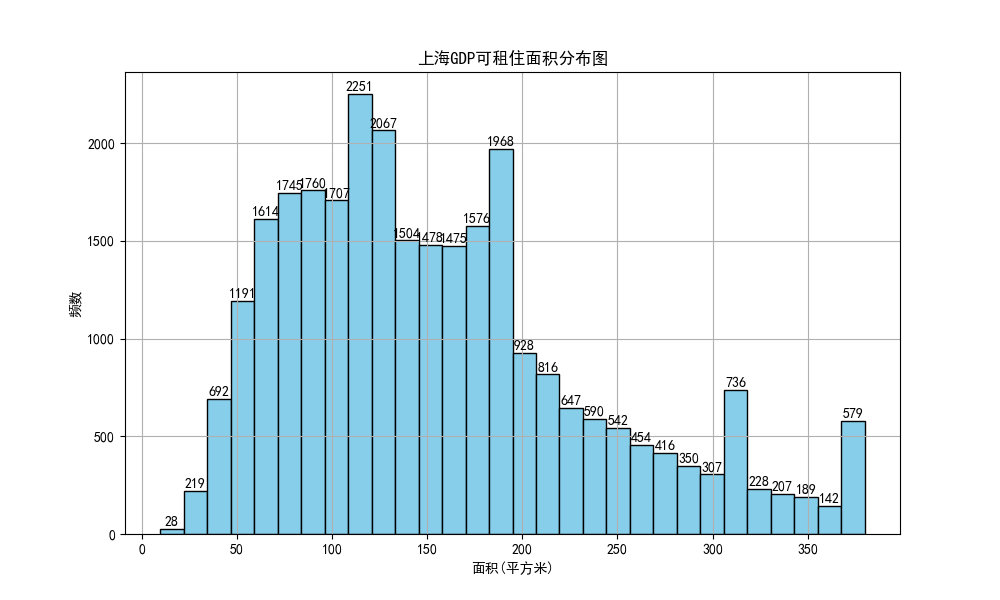
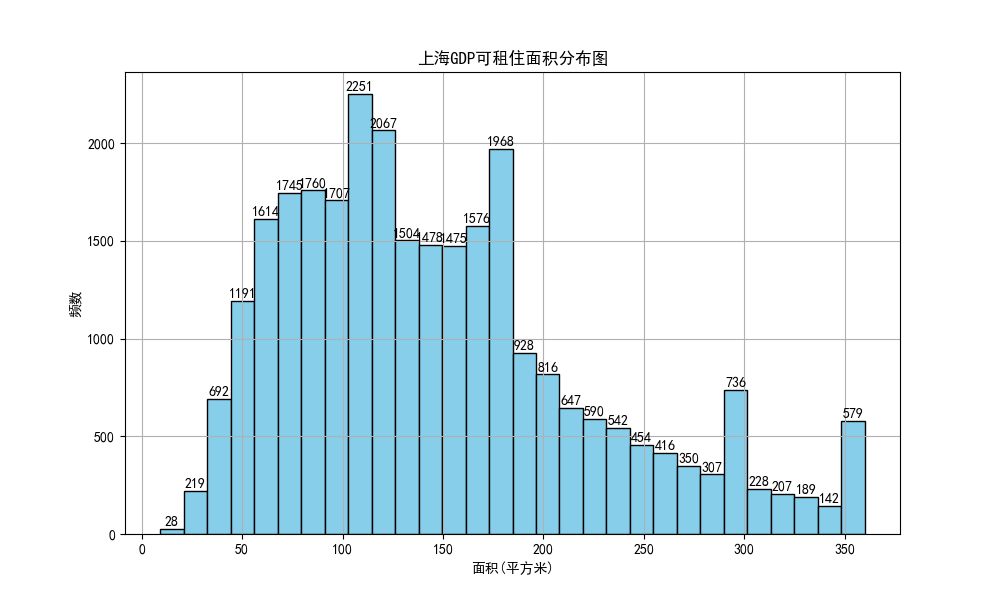
fix error that all use the bj gdp

diff --git a/data_analyse/GDP/GDP.py b/data_analyse/GDP/GDP.py
@@ -7,7 +7,14 @@ def analyze_housing_affordability(file_path, city_name):
     data = pd.read_csv(file_path)
 
     # Beijing's per capita GDP
-    gdp_per_capita = 190000  # in Yuan
+    GDP = {
+        "北京": 190000,
+        "上海": 180000,
+        "广州": 150000,
+        "深圳": 180000,
+        "成都": 100000,
+    }
+    gdp_per_capita = GDP[city_name]  # in Yuan
 
     # Calculating the number of square meters of housing that can be afforded for a year with the GDP
     data["affordable_area_sqm"] = gdp_per_capita / (data["单位面积价格(元/平米/月)"] * 12)
@@ -59,6 +66,8 @@ def analyze_housing_affordability(file_path, city_name):
 
 
 if __name__ == "__main__":
+    GDP_per_capita = 190000  # in Yuan
+
     # analyze_housing_affordability("data/bj.csv", "北京")
     analyze_housing_affordability("data/sh.csv", "上海")
     analyze_housing_affordability("data/gz.csv", "广州")
